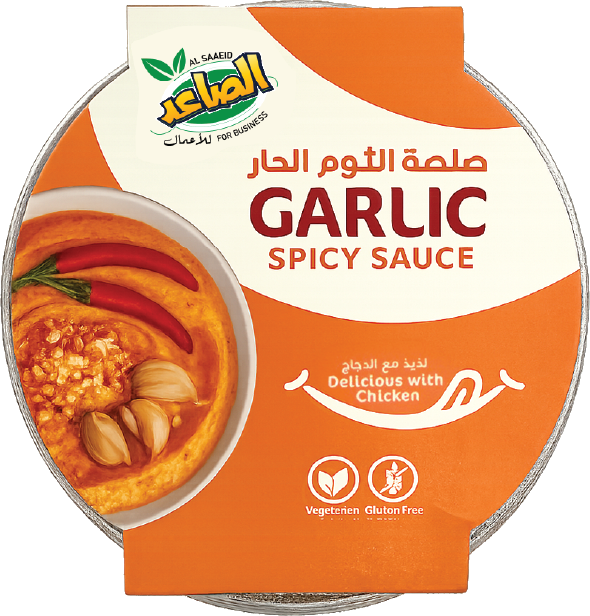
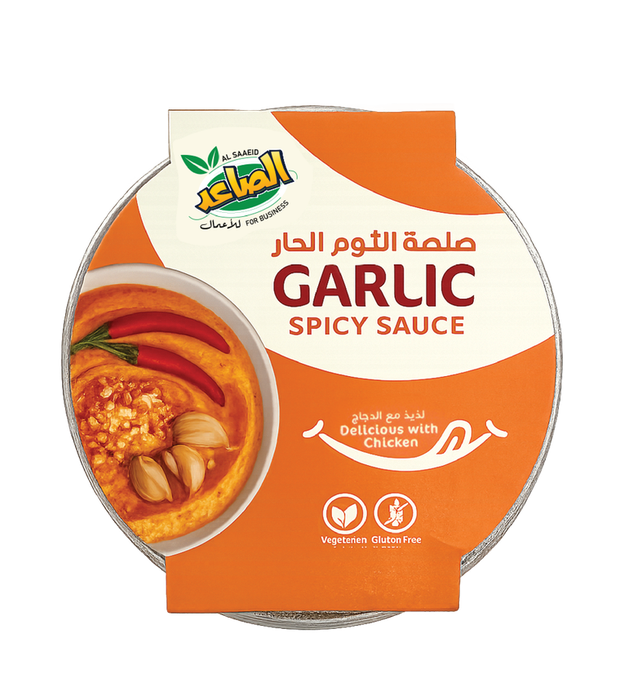
Use official product PNGs supplied by the client
Replaces my hand-cut crops with the 13 official transparent PNGs, which share
a single 1993x2250 canvas so every product keeps its correct relative scale.

- Card ratio now matches that canvas so nothing is cropped or rescaled
- Each product served as WebP with a PNG fallback via <picture>: the set drops
  from 5.3MB to 950KB for modern browsers with no visible quality loss
- Mango Passion is absent from the official set, so its existing cutout was
  re-seated onto the same canvas to match the others

diff --git a/products.html b/products.html
@@ -123,7 +123,7 @@
         <article class="prod-card" data-cat="juices" style="--accent:var(--mango)">
           <div class="prod-card__media">
             <span class="prod-card__flag">الأكثر مبيعاً</span>
-            <img src="assets/img/products/juice-mango.png" alt="عصير مانجو باشن بثلاثة أحجام" loading="lazy">
+            <picture><source type="image/webp" srcset="assets/img/products/juice-mango.webp"><img src="assets/img/products/juice-mango.png" alt="عصير مانجو باشن بثلاثة أحجام" loading="lazy" width="620" height="700"></picture>
           </div>
           <div class="prod-card__body">
             <h3>مانجو باشن</h3>
@@ -141,7 +141,7 @@
         <article class="prod-card" data-cat="juices" style="--accent:var(--lemon)" id="juices">
           <div class="prod-card__media">
             <span class="prod-card__flag">منعش</span>
-            <img src="assets/img/products/juice-lemon.png" alt="عصير الليمون بالنعناع بثلاثة أحجام" loading="lazy">
+            <picture><source type="image/webp" srcset="assets/img/products/juice-lemon.webp"><img src="assets/img/products/juice-lemon.png" alt="عصير الليمون بالنعناع بثلاثة أحجام" loading="lazy" width="620" height="700"></picture>
           </div>
           <div class="prod-card__body">
             <h3>ليمون بالنعناع</h3>
@@ -159,7 +159,7 @@
         <article class="prod-card" data-cat="juices" style="--accent:var(--karkade)">
           <div class="prod-card__media">
             <span class="prod-card__flag">طبيعي</span>
-            <img src="assets/img/products/juice-karkade.png" alt="مشروب الكركديه بالنعناع بثلاثة أحجام" loading="lazy">
+            <picture><source type="image/webp" srcset="assets/img/products/juice-karkade.webp"><img src="assets/img/products/juice-karkade.png" alt="مشروب الكركديه بالنعناع بثلاثة أحجام" loading="lazy" width="620" height="700"></picture>
           </div>
           <div class="prod-card__body">
             <h3>كركديه بالنعناع</h3>
@@ -178,7 +178,7 @@
         <article class="prod-card" data-cat="laban" style="--accent:var(--green-600)" id="laban">
           <div class="prod-card__media">
             <span class="prod-card__flag">وصفة عُمانية</span>
-            <img src="assets/img/products/laban-omani.png" alt="لبن بالخلطة العُمانية بثلاثة أحجام" loading="lazy">
+            <picture><source type="image/webp" srcset="assets/img/products/laban-omani.webp"><img src="assets/img/products/laban-omani.png" alt="لبن بالخلطة العُمانية بثلاثة أحجام" loading="lazy" width="620" height="700"></picture>
           </div>
           <div class="prod-card__body">
             <h3>لبن بالخلطة العُمانية</h3>
@@ -196,7 +196,7 @@
         <article class="prod-card" data-cat="laban" style="--accent:var(--laban)">
           <div class="prod-card__media">
             <span class="prod-card__flag">نكهة تراثية</span>
-            <img src="assets/img/products/laban-sanoot.png" alt="لبن بالسنوت بحجمين" loading="lazy">
+            <picture><source type="image/webp" srcset="assets/img/products/laban-sanoot.webp"><img src="assets/img/products/laban-sanoot.png" alt="لبن بالسنوت بحجمين" loading="lazy" width="620" height="700"></picture>
           </div>
           <div class="prod-card__body">
             <h3>لبن بالسنوت</h3>
@@ -213,7 +213,7 @@
         <article class="prod-card" data-cat="laban" style="--accent:var(--gold-500)">
           <div class="prod-card__media">
             <span class="prod-card__flag">نكهة جريئة</span>
-            <img src="assets/img/products/laban-garlic.png" alt="لبن بالثوم والفلفل الأسود بحجمين" loading="lazy">
+            <picture><source type="image/webp" srcset="assets/img/products/laban-garlic.webp"><img src="assets/img/products/laban-garlic.png" alt="لبن بالثوم والفلفل الأسود بحجمين" loading="lazy" width="620" height="700"></picture>
           </div>
           <div class="prod-card__body">
             <h3>لبن بالثوم والفلفل</h3>
@@ -231,7 +231,7 @@
         <article class="prod-card" data-cat="milk" style="--accent:var(--milk)" id="milk">
           <div class="prod-card__media">
             <span class="prod-card__flag">جديد</span>
-            <img src="assets/img/products/milk-fresh.png" alt="حليب بقري طازج عبوة 1.8 لتر" loading="lazy">
+            <picture><source type="image/webp" srcset="assets/img/products/milk-fresh.webp"><img src="assets/img/products/milk-fresh.png" alt="حليب بقري طازج عبوة 1.8 لتر" loading="lazy" width="620" height="700"></picture>
             <div class="prod-card__badges"><span>١٠٠٪ طبيعي</span></div>
           </div>
           <div class="prod-card__body">
@@ -249,7 +249,7 @@
         <article class="prod-card" data-cat="dips" style="--accent:#F19A20" id="dips">
           <div class="prod-card__media">
             <span class="prod-card__flag" style="background:#F19A20">كلاسيكي</span>
-            <img src="assets/img/products/dip-hummus-original.png" alt="حمص بالطحينة" loading="lazy">
+            <picture><source type="image/webp" srcset="assets/img/products/dip-hummus-original.webp"><img src="assets/img/products/dip-hummus-original.png" alt="حمص بالطحينة" loading="lazy" width="620" height="700"></picture>
             <div class="prod-card__badges"><span>نباتي</span><span>خالٍ من الغلوتين</span></div>
           </div>
           <div class="prod-card__body">
@@ -266,7 +266,7 @@
         <article class="prod-card" data-cat="dips" style="--accent:var(--spicy)">
           <div class="prod-card__media">
             <span class="prod-card__flag" style="background:var(--spicy)">حار</span>
-            <img src="assets/img/products/dip-hummus-spicy.png" alt="حمص بالشطة الحارة" loading="lazy">
+            <picture><source type="image/webp" srcset="assets/img/products/dip-hummus-spicy.webp"><img src="assets/img/products/dip-hummus-spicy.png" alt="حمص بالشطة الحارة" loading="lazy" width="620" height="700"></picture>
             <div class="prod-card__badges"><span>نباتي</span><span>خالٍ من الغلوتين</span></div>
           </div>
           <div class="prod-card__body">
@@ -283,7 +283,7 @@
         <article class="prod-card" data-cat="dips" style="--accent:var(--olive)">
           <div class="prod-card__media">
             <span class="prod-card__flag" style="background:var(--olive)">بالزيتون</span>
-            <img src="assets/img/products/dip-hummus-olives.png" alt="حمص بالزيتون" loading="lazy">
+            <picture><source type="image/webp" srcset="assets/img/products/dip-hummus-olives.webp"><img src="assets/img/products/dip-hummus-olives.png" alt="حمص بالزيتون" loading="lazy" width="620" height="700"></picture>
             <div class="prod-card__badges"><span>نباتي</span><span>خالٍ من الغلوتين</span></div>
           </div>
           <div class="prod-card__body">
@@ -300,7 +300,7 @@
         <article class="prod-card" data-cat="dips" style="--accent:var(--mutabal)">
           <div class="prod-card__media">
             <span class="prod-card__flag" style="background:var(--mutabal)">مشوي</span>
-            <img src="assets/img/products/dip-mutabal.png" alt="متبل باذنجان" loading="lazy">
+            <picture><source type="image/webp" srcset="assets/img/products/dip-mutabal.webp"><img src="assets/img/products/dip-mutabal.png" alt="متبل باذنجان" loading="lazy" width="620" height="700"></picture>
             <div class="prod-card__badges"><span>نباتي</span><span>خالٍ من الغلوتين</span></div>
           </div>
           <div class="prod-card__body">
@@ -317,7 +317,7 @@
         <article class="prod-card" data-cat="dips" style="--accent:var(--choc)">
           <div class="prod-card__media">
             <span class="prod-card__flag" style="background:var(--choc)">للتحلية</span>
-            <img src="assets/img/products/dip-chocolate.png" alt="تغميسة الشوكولاتة الطازجة" loading="lazy">
+            <picture><source type="image/webp" srcset="assets/img/products/dip-chocolate.webp"><img src="assets/img/products/dip-chocolate.png" alt="تغميسة الشوكولاتة الطازجة" loading="lazy" width="620" height="700"></picture>
             <div class="prod-card__badges"><span>نباتي</span><span>خالٍ من الغلوتين</span></div>
           </div>
           <div class="prod-card__body">
@@ -334,7 +334,7 @@
         <article class="prod-card" data-cat="dips" style="--accent:var(--garlic)">
           <div class="prod-card__media">
             <span class="prod-card__flag" style="background:var(--garlic)">مع الدجاج</span>
-            <img src="assets/img/products/dip-garlic.png" alt="صلصة الثوم" loading="lazy">
+            <picture><source type="image/webp" srcset="assets/img/products/dip-garlic.webp"><img src="assets/img/products/dip-garlic.png" alt="صلصة الثوم" loading="lazy" width="620" height="700"></picture>
             <div class="prod-card__badges"><span>نباتي</span><span>خالٍ من الغلوتين</span></div>
           </div>
           <div class="prod-card__body">
@@ -351,7 +351,7 @@
         <article class="prod-card" data-cat="dips" style="--accent:#E87511">
           <div class="prod-card__media">
             <span class="prod-card__flag" style="background:#E87511">حار</span>
-            <img src="assets/img/products/dip-garlic-spicy.png" alt="صلصة الثوم الحار" loading="lazy">
+            <picture><source type="image/webp" srcset="assets/img/products/dip-garlic-spicy.webp"><img src="assets/img/products/dip-garlic-spicy.png" alt="صلصة الثوم الحار" loading="lazy" width="620" height="700"></picture>
             <div class="prod-card__badges"><span>نباتي</span><span>خالٍ من الغلوتين</span></div>
           </div>
           <div class="prod-card__body">

diff --git a/en/products.html b/en/products.html
@@ -118,7 +118,7 @@
         <article class="prod-card" data-cat="juices" style="--accent:var(--mango)">
           <div class="prod-card__media">
             <span class="prod-card__flag">Best seller</span>
-            <img src="../assets/img/products/juice-mango.png" alt="Mango Passion juice in three sizes" loading="lazy">
+            <picture><source type="image/webp" srcset="../assets/img/products/juice-mango.webp"><img src="../assets/img/products/juice-mango.png" alt="Mango Passion juice in three sizes" loading="lazy" width="620" height="700"></picture>
           </div>
           <div class="prod-card__body">
             <h3>Mango Passion</h3>
@@ -136,7 +136,7 @@
         <article class="prod-card" data-cat="juices" style="--accent:var(--lemon)" id="juices">
           <div class="prod-card__media">
             <span class="prod-card__flag">Refreshing</span>
-            <img src="../assets/img/products/juice-lemon.png" alt="Lemon with mint juice in three sizes" loading="lazy">
+            <picture><source type="image/webp" srcset="../assets/img/products/juice-lemon.webp"><img src="../assets/img/products/juice-lemon.png" alt="Lemon with mint juice in three sizes" loading="lazy" width="620" height="700"></picture>
           </div>
           <div class="prod-card__body">
             <h3>Lemon with Mint</h3>
@@ -154,7 +154,7 @@
         <article class="prod-card" data-cat="juices" style="--accent:var(--karkade)">
           <div class="prod-card__media">
             <span class="prod-card__flag">Natural</span>
-            <img src="../assets/img/products/juice-karkade.png" alt="Karkade hibiscus with mint drink in three sizes" loading="lazy">
+            <picture><source type="image/webp" srcset="../assets/img/products/juice-karkade.webp"><img src="../assets/img/products/juice-karkade.png" alt="Karkade hibiscus with mint drink in three sizes" loading="lazy" width="620" height="700"></picture>
           </div>
           <div class="prod-card__body">
             <h3>Hibiscus with Mint</h3>
@@ -172,7 +172,7 @@
         <article class="prod-card" data-cat="laban" style="--accent:var(--green-600)" id="laban">
           <div class="prod-card__media">
             <span class="prod-card__flag">Omani recipe</span>
-            <img src="../assets/img/products/laban-omani.png" alt="Laban with Omani mixture in three sizes" loading="lazy">
+            <picture><source type="image/webp" srcset="../assets/img/products/laban-omani.webp"><img src="../assets/img/products/laban-omani.png" alt="Laban with Omani mixture in three sizes" loading="lazy" width="620" height="700"></picture>
           </div>
           <div class="prod-card__body">
             <h3>Laban with Omani Mixture</h3>
@@ -190,7 +190,7 @@
         <article class="prod-card" data-cat="laban" style="--accent:var(--laban)">
           <div class="prod-card__media">
             <span class="prod-card__flag">Heritage flavor</span>
-            <img src="../assets/img/products/laban-sanoot.png" alt="Laban with sanoot fennel in two sizes" loading="lazy">
+            <picture><source type="image/webp" srcset="../assets/img/products/laban-sanoot.webp"><img src="../assets/img/products/laban-sanoot.png" alt="Laban with sanoot fennel in two sizes" loading="lazy" width="620" height="700"></picture>
           </div>
           <div class="prod-card__body">
             <h3>Laban with Sanoot</h3>
@@ -207,7 +207,7 @@
         <article class="prod-card" data-cat="laban" style="--accent:var(--gold-500)">
           <div class="prod-card__media">
             <span class="prod-card__flag">Bold flavor</span>
-            <img src="../assets/img/products/laban-garlic.png" alt="Laban with garlic and black pepper in two sizes" loading="lazy">
+            <picture><source type="image/webp" srcset="../assets/img/products/laban-garlic.webp"><img src="../assets/img/products/laban-garlic.png" alt="Laban with garlic and black pepper in two sizes" loading="lazy" width="620" height="700"></picture>
           </div>
           <div class="prod-card__body">
             <h3>Laban with Garlic &amp; Pepper</h3>
@@ -224,7 +224,7 @@
         <article class="prod-card" data-cat="milk" style="--accent:var(--milk)" id="milk">
           <div class="prod-card__media">
             <span class="prod-card__flag">New</span>
-            <img src="../assets/img/products/milk-fresh.png" alt="Fresh cow's milk 1.8 liter jug" loading="lazy">
+            <picture><source type="image/webp" srcset="../assets/img/products/milk-fresh.webp"><img src="../assets/img/products/milk-fresh.png" alt="Fresh cow's milk 1.8 liter jug" loading="lazy" width="620" height="700"></picture>
             <div class="prod-card__badges"><span>100% natural</span></div>
           </div>
           <div class="prod-card__body">
@@ -241,7 +241,7 @@
         <article class="prod-card" data-cat="dips" style="--accent:#F19A20" id="dips">
           <div class="prod-card__media">
             <span class="prod-card__flag" style="background:#F19A20">Classic</span>
-            <img src="../assets/img/products/dip-hummus-original.png" alt="Hummus original with tahini" loading="lazy">
+            <picture><source type="image/webp" srcset="../assets/img/products/dip-hummus-original.webp"><img src="../assets/img/products/dip-hummus-original.png" alt="Hummus original with tahini" loading="lazy" width="620" height="700"></picture>
             <div class="prod-card__badges"><span>Vegan</span><span>Gluten-free</span></div>
           </div>
           <div class="prod-card__body">
@@ -258,7 +258,7 @@
         <article class="prod-card" data-cat="dips" style="--accent:var(--spicy)">
           <div class="prod-card__media">
             <span class="prod-card__flag" style="background:var(--spicy)">Spicy</span>
-            <img src="../assets/img/products/dip-hummus-spicy.png" alt="Spicy hummus with hot chili" loading="lazy">
+            <picture><source type="image/webp" srcset="../assets/img/products/dip-hummus-spicy.webp"><img src="../assets/img/products/dip-hummus-spicy.png" alt="Spicy hummus with hot chili" loading="lazy" width="620" height="700"></picture>
             <div class="prod-card__badges"><span>Vegan</span><span>Gluten-free</span></div>
           </div>
           <div class="prod-card__body">
@@ -275,7 +275,7 @@
         <article class="prod-card" data-cat="dips" style="--accent:var(--olive)">
           <div class="prod-card__media">
             <span class="prod-card__flag" style="background:var(--olive)">With olives</span>
-            <img src="../assets/img/products/dip-hummus-olives.png" alt="Hummus with olives" loading="lazy">
+            <picture><source type="image/webp" srcset="../assets/img/products/dip-hummus-olives.webp"><img src="../assets/img/products/dip-hummus-olives.png" alt="Hummus with olives" loading="lazy" width="620" height="700"></picture>
             <div class="prod-card__badges"><span>Vegan</span><span>Gluten-free</span></div>
           </div>
           <div class="prod-card__body">
@@ -292,7 +292,7 @@
         <article class="prod-card" data-cat="dips" style="--accent:var(--mutabal)">
           <div class="prod-card__media">
             <span class="prod-card__flag" style="background:var(--mutabal)">Roasted</span>
-            <img src="../assets/img/products/dip-mutabal.png" alt="Mutabal eggplant dip" loading="lazy">
+            <picture><source type="image/webp" srcset="../assets/img/products/dip-mutabal.webp"><img src="../assets/img/products/dip-mutabal.png" alt="Mutabal eggplant dip" loading="lazy" width="620" height="700"></picture>
             <div class="prod-card__badges"><span>Vegan</span><span>Gluten-free</span></div>
           </div>
           <div class="prod-card__body">
@@ -309,7 +309,7 @@
         <article class="prod-card" data-cat="dips" style="--accent:var(--choc)">
           <div class="prod-card__media">
             <span class="prod-card__flag" style="background:var(--choc)">Dessert</span>
-            <img src="../assets/img/products/dip-chocolate.png" alt="Chocolate fresh dip" loading="lazy">
+            <picture><source type="image/webp" srcset="../assets/img/products/dip-chocolate.webp"><img src="../assets/img/products/dip-chocolate.png" alt="Chocolate fresh dip" loading="lazy" width="620" height="700"></picture>
             <div class="prod-card__badges"><span>Vegan</span><span>Gluten-free</span></div>
           </div>
           <div class="prod-card__body">
@@ -326,7 +326,7 @@
         <article class="prod-card" data-cat="dips" style="--accent:var(--garlic)">
           <div class="prod-card__media">
             <span class="prod-card__flag" style="background:var(--garlic)">With chicken</span>
-            <img src="../assets/img/products/dip-garlic.png" alt="Garlic sauce" loading="lazy">
+            <picture><source type="image/webp" srcset="../assets/img/products/dip-garlic.webp"><img src="../assets/img/products/dip-garlic.png" alt="Garlic sauce" loading="lazy" width="620" height="700"></picture>
             <div class="prod-card__badges"><span>Vegetarian</span><span>Gluten-free</span></div>
           </div>
           <div class="prod-card__body">
@@ -343,7 +343,7 @@
         <article class="prod-card" data-cat="dips" style="--accent:#E87511">
           <div class="prod-card__media">
             <span class="prod-card__flag" style="background:#E87511">Spicy</span>
-            <img src="../assets/img/products/dip-garlic-spicy.png" alt="Spicy garlic sauce" loading="lazy">
+            <picture><source type="image/webp" srcset="../assets/img/products/dip-garlic-spicy.webp"><img src="../assets/img/products/dip-garlic-spicy.png" alt="Spicy garlic sauce" loading="lazy" width="620" height="700"></picture>
             <div class="prod-card__badges"><span>Vegetarian</span><span>Gluten-free</span></div>
           </div>
           <div class="prod-card__body">

diff --git a/index.html b/index.html
@@ -188,7 +188,7 @@
           </div>
         </a>
         <a class="cat-card" href="products.html#milk">
-          <img src="assets/img/products/milk-fresh.png" alt="حليب الصاعد البقري الطازج عبوة 1.8 لتر" loading="lazy" style="object-fit:contain;background:#E2ECDC">
+          <picture><source type="image/webp" srcset="assets/img/products/milk-fresh.webp"><img src="assets/img/products/milk-fresh.png" alt="حليب الصاعد البقري الطازج عبوة 1.8 لتر" loading="lazy" style="object-fit:contain;background:#E2ECDC" width="620" height="700"></picture>
           <div class="cat-card__body">
             <h3>الحليب الطازج</h3>
             <p>حليب بقري ١٠٠٪ طبيعي</p>
@@ -252,7 +252,7 @@
         <article class="prod-card" style="--accent:var(--mango)">
           <div class="prod-card__media">
             <span class="prod-card__flag">الأكثر مبيعاً</span>
-            <img src="assets/img/products/juice-mango.png" alt="عصير مانجو باشن من الصاعد بثلاثة أحجام" loading="lazy">
+            <picture><source type="image/webp" srcset="assets/img/products/juice-mango.webp"><img src="assets/img/products/juice-mango.png" alt="عصير مانجو باشن من الصاعد بثلاثة أحجام" loading="lazy" width="620" height="700"></picture>
           </div>
           <div class="prod-card__body">
             <h3>مانجو باشن</h3>
@@ -268,7 +268,7 @@
         <article class="prod-card" style="--accent:var(--karkade)">
           <div class="prod-card__media">
             <span class="prod-card__flag">منعش</span>
-            <img src="assets/img/products/juice-karkade.png" alt="مشروب الكركديه بالنعناع من الصاعد" loading="lazy">
+            <picture><source type="image/webp" srcset="assets/img/products/juice-karkade.webp"><img src="assets/img/products/juice-karkade.png" alt="مشروب الكركديه بالنعناع من الصاعد" loading="lazy" width="620" height="700"></picture>
           </div>
           <div class="prod-card__body">
             <h3>كركديه بالنعناع</h3>
@@ -284,7 +284,7 @@
         <article class="prod-card" style="--accent:var(--green-600)">
           <div class="prod-card__media">
             <span class="prod-card__flag">وصفة عُمانية</span>
-            <img src="assets/img/products/laban-omani.png" alt="لبن الصاعد بالخلطة العُمانية بثلاثة أحجام" loading="lazy">
+            <picture><source type="image/webp" srcset="assets/img/products/laban-omani.webp"><img src="assets/img/products/laban-omani.png" alt="لبن الصاعد بالخلطة العُمانية بثلاثة أحجام" loading="lazy" width="620" height="700"></picture>
           </div>
           <div class="prod-card__body">
             <h3>لبن بالخلطة العُمانية</h3>
@@ -300,7 +300,7 @@
         <article class="prod-card" style="--accent:var(--hummus, #F19A20)">
           <div class="prod-card__media">
             <span class="prod-card__flag" style="background:#F19A20">غني بالطحينة</span>
-            <img src="assets/img/products/dip-hummus-original.png" alt="حمص بالطحينة من الصاعد بزيت الزيتون البكر" loading="lazy">
+            <picture><source type="image/webp" srcset="assets/img/products/dip-hummus-original.webp"><img src="assets/img/products/dip-hummus-original.png" alt="حمص بالطحينة من الصاعد بزيت الزيتون البكر" loading="lazy" width="620" height="700"></picture>
           </div>
           <div class="prod-card__body">
             <h3>حمص بالطحينة</h3>

diff --git a/en/index.html b/en/index.html
@@ -184,7 +184,7 @@
           </div>
         </a>
         <a class="cat-card" href="products.html#milk">
-          <img src="../assets/img/products/milk-fresh.png" alt="Al Saaeid fresh cow's milk 1.8 liter jug" loading="lazy" style="object-fit:contain;background:#E2ECDC">
+          <picture><source type="image/webp" srcset="../assets/img/products/milk-fresh.webp"><img src="../assets/img/products/milk-fresh.png" alt="Al Saaeid fresh cow's milk 1.8 liter jug" loading="lazy" style="object-fit:contain;background:#E2ECDC" width="620" height="700"></picture>
           <div class="cat-card__body">
             <h3>Fresh Milk</h3>
             <p>100% natural cow's milk</p>
@@ -248,7 +248,7 @@
         <article class="prod-card" style="--accent:var(--mango)">
           <div class="prod-card__media">
             <span class="prod-card__flag">Best seller</span>
-            <img src="../assets/img/products/juice-mango.png" alt="Al Saaeid Mango Passion juice in three sizes" loading="lazy">
+            <picture><source type="image/webp" srcset="../assets/img/products/juice-mango.webp"><img src="../assets/img/products/juice-mango.png" alt="Al Saaeid Mango Passion juice in three sizes" loading="lazy" width="620" height="700"></picture>
           </div>
           <div class="prod-card__body">
             <h3>Mango Passion</h3>
@@ -264,7 +264,7 @@
         <article class="prod-card" style="--accent:var(--karkade)">
           <div class="prod-card__media">
             <span class="prod-card__flag">Refreshing</span>
-            <img src="../assets/img/products/juice-karkade.png" alt="Al Saaeid hibiscus with mint drink" loading="lazy">
+            <picture><source type="image/webp" srcset="../assets/img/products/juice-karkade.webp"><img src="../assets/img/products/juice-karkade.png" alt="Al Saaeid hibiscus with mint drink" loading="lazy" width="620" height="700"></picture>
           </div>
           <div class="prod-card__body">
             <h3>Hibiscus with Mint</h3>
@@ -280,7 +280,7 @@
         <article class="prod-card" style="--accent:var(--green-600)">
           <div class="prod-card__media">
             <span class="prod-card__flag">Omani recipe</span>
-            <img src="../assets/img/products/laban-omani.png" alt="Al Saaeid laban with Omani mixture in three sizes" loading="lazy">
+            <picture><source type="image/webp" srcset="../assets/img/products/laban-omani.webp"><img src="../assets/img/products/laban-omani.png" alt="Al Saaeid laban with Omani mixture in three sizes" loading="lazy" width="620" height="700"></picture>
           </div>
           <div class="prod-card__body">
             <h3>Laban with Omani Mixture</h3>
@@ -296,7 +296,7 @@
         <article class="prod-card" style="--accent:#F19A20">
           <div class="prod-card__media">
             <span class="prod-card__flag" style="background:#F19A20">Rich in tahini</span>
-            <img src="../assets/img/products/dip-hummus-original.png" alt="Al Saaeid original hummus with virgin olive oil" loading="lazy">
+            <picture><source type="image/webp" srcset="../assets/img/products/dip-hummus-original.webp"><img src="../assets/img/products/dip-hummus-original.png" alt="Al Saaeid original hummus with virgin olive oil" loading="lazy" width="620" height="700"></picture>
           </div>
           <div class="prod-card__body">
             <h3>Hummus Original</h3>

diff --git a/assets/css/style.css b/assets/css/style.css
@@ -289,6 +289,7 @@ p { margin: 0 0 1em; }
   transition: transform 0.28s var(--ease-pop), box-shadow 0.28s ease;
 }
 .cat-card:hover { transform: translateY(-8px) rotate(-0.6deg); box-shadow: var(--shadow-lg); }
+.cat-card picture { display: contents; }
 .cat-card img { position: absolute; inset: 0; width: 100%; height: 100%; object-fit: cover; z-index: -2; transition: transform 0.5s ease; }
 .cat-card:hover img { transform: scale(1.06); }
 .cat-card::after {
@@ -356,8 +357,11 @@ p { margin: 0 0 1em; }
   position: relative;
   background: linear-gradient(165deg, #FFFFFF 0%, var(--sage-50) 58%, var(--sage-100) 100%);
 }
+.prod-card__media picture { display: block; }
+/* Official product PNGs share one canvas (1993x2250), so keeping that ratio
+   preserves the correct relative scale between bottles, jugs and tubs. */
 .prod-card__media img {
-  width: 100%; aspect-ratio: 1 / 0.98; object-fit: contain; padding: 9% 12% 7%;
+  width: 100%; aspect-ratio: 1993 / 2250; object-fit: contain; padding: 3% 8%;
   transition: transform 0.45s var(--ease-pop);
   filter: drop-shadow(0 12px 18px rgba(35, 37, 75, 0.16));
 }
